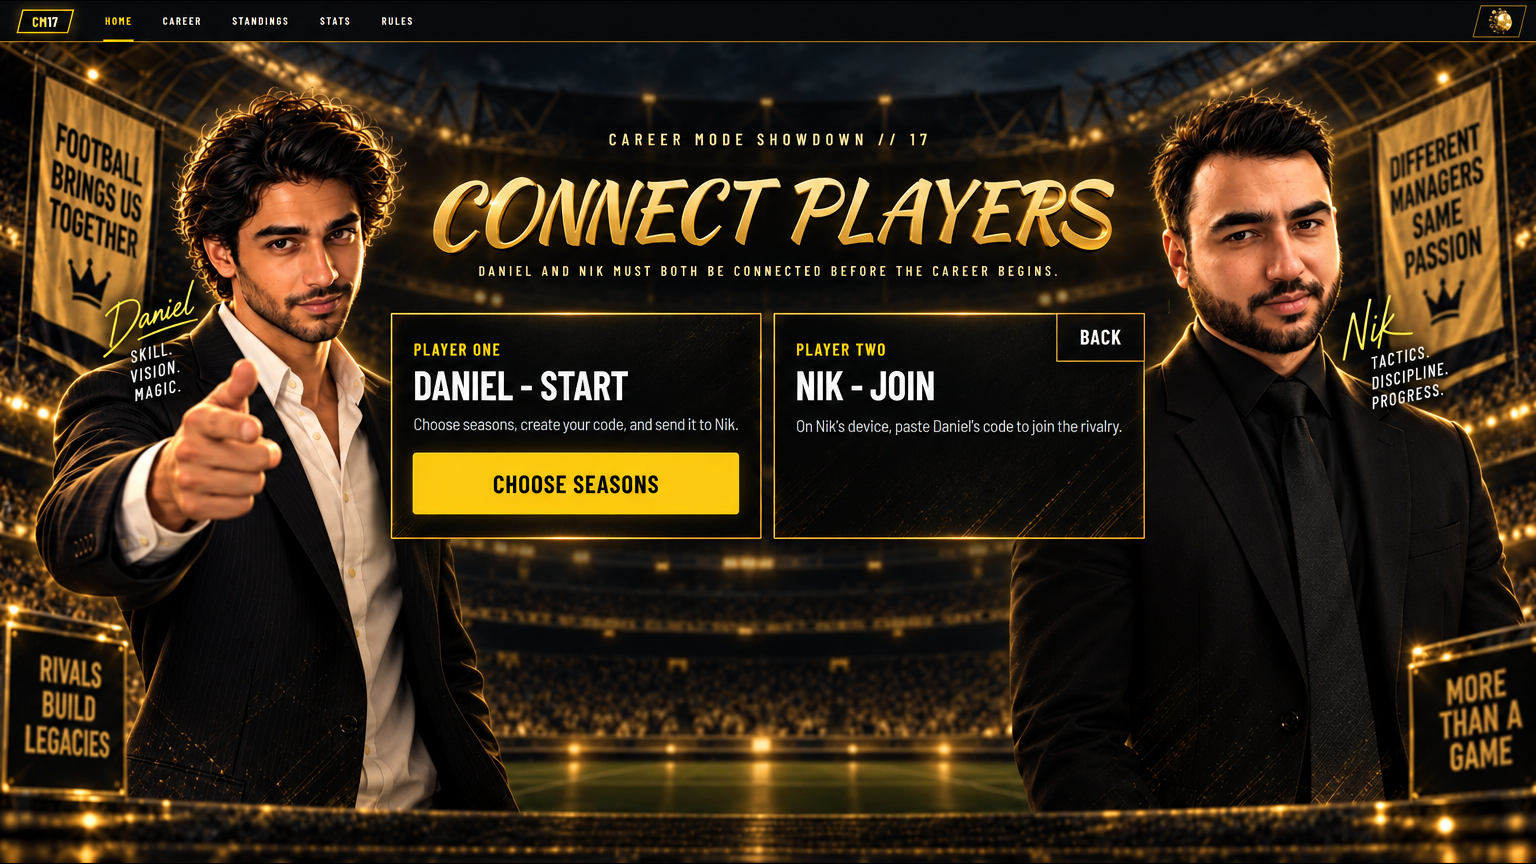
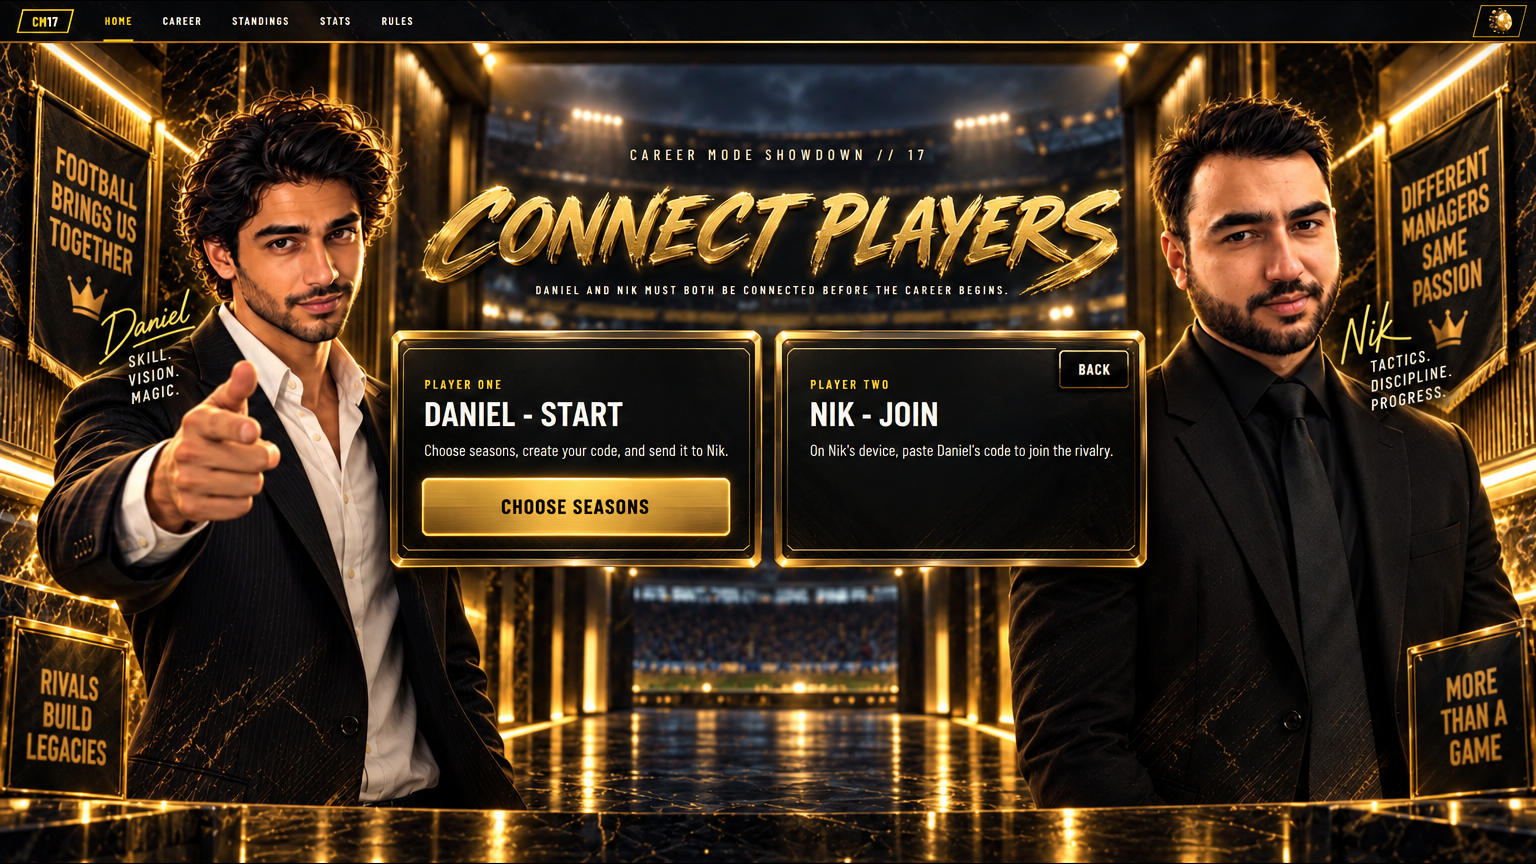
Mockups: re-approve NEXT_CONNECT_PLAYERS with the premium redo
Claude-Session: https://claude.ai/code/session_013pn5j1NjipzmcDNVpF7Fd3

diff --git a/project-documents/factory/mockups/README.md b/project-documents/factory/mockups/README.md
@@ -31,7 +31,7 @@ Nik's mockups and goal images. They show the look to reach. Some contain real cl
 | PHONE_FINAL_WINNER.png | Final Winner | Sat 10 Oct 11:23 p.m. Eastern | Ticket 1588 11 of 12, try 1 plus a buttons-only fix. Faces, trophy, scores and every word match live. New: richer stadium night, framed SUMMARY / HONOURS panel, and the two live buttons REVIEW MY SEASON RESULT (dark, gold edge) and BACK TO SHOWDOWN HOME (gold, main) fully on screen with a margin. In live they sit 6-7px from the bottom edge at 393x660. sha256 67de1d61ed589677… |
 | NEXT_HOME.png | Home (desktop, next level) | Sun 11 Oct 1:50 a.m. Eastern | Ticket 1610 1 of 14, try 1, cropped to the 16:9 screen (1536x864). Both managers, every title, tab, label and the soundtrack card match live r69. New: calmer lighting, a trophy-hall background with plain shirts (no crests), cleaner panels, and big tile art filling the right side of each tile. Dropped: the small "More Than A Game" script tag above the right banner (decoration only). sha256 c8a44225c70ab08f… |
 | NEXT_RULE_BOOK.png | Rule Book (desktop, next level) | Sun 11 Oct 3:58 a.m. Eastern | Ticket 1610 13 of 14, first try with the stricter prompt, cropped to the screen (1536x880). Top bar, title, all six cards and every line of 01-05 plus the scoring table match live. Claude fix: GPT merged and garbled the four 06 CONNECTION & RECOVERY lines, so Claude repainted that card body with the four live lines in Barlow (no other pixels touched). Wiring notes: the subtitle shows a comma after "Permanent clubs" (live has a full stop), and the right banner reads SAME AMBITION; use the live banner art (SAME PASSION). New: calmer gold stadium, framed cards, bigger readable rule lines. sha256 bc23b9e610d44f75… |
-| NEXT_CONNECT_PLAYERS.png | Connect Players (desktop, next level) | Sun 11 Oct 6:30 p.m. Eastern | Ticket 1610 2 of 14, cropped to 16:9 (1536x864). Same layout as live: top bar with CM17 and the five tabs, CONNECT PLAYERS title and line, Daniel LEFT and Nik RIGHT unchanged, all four live banners, BACK above the right card. New: both cards much larger, CHOOSE SEASONS a big yellow main action, calmer stadium. Wiring note: card titles show a dash (DANIEL - START, NIK - JOIN); keep the live middle dot. sha256 6f6e6e089a394b66… |
+| NEXT_CONNECT_PLAYERS.png | Connect Players (desktop, premium) | Sun 11 Oct 6:54 p.m. Eastern | Premium redo (ticket 1610 2 of 14, rewritten prompt), replaces the 6:30 p.m. picture, cropped to 16:9 (1536x864). Same layout and words as live: top bar with CM17 and the five tabs, CONNECT PLAYERS gold-leaf title and line, Daniel LEFT and Nik RIGHT unchanged, all four banners, BACK in the right card. New: black-marble VIP tunnel with brushed-gold walls, framed gold-bevel cards, polished-gold CHOOSE SEASONS. Wiring note: card titles show a dash (DANIEL - START, NIK - JOIN); keep the live middle dot. sha256 e86d6f0a4ba5f52d… |
 | NEXT_SEASON_RESULTS.png | Season Results (desktop, next level) | Sun 11 Oct 6:33 p.m. Eastern | Ticket 1610 3 of 14, cropped to 16:9 (1536x864). Same layout and words as live: top bar with lock marks and the DANIEL / SEASON 1 / 1 chips, SEASON RESULTS brush title, TWO MANAGERS · ONE LEGACY, scoring card (+5, +3, +1, +1, +1, max 11), Daniel's entry card (Arsenal, our original badge), four award checkboxes, REVIEW MY SEASON RESULT and BACK TO SHOWDOWN HOME. Daniel LEFT, Nik RIGHT unchanged, all four banners. New: bigger entry fields and labels, stronger card frames, calmer pitch light. sha256 561a27dd53fb019e… |
 | PHONE_SETTINGS.png | Settings | Sat 10 Oct 11:22 p.m. Eastern | Ticket 1588 12 of 12, first try. Every word matches live. New: bevelled black glass panels with gold edges, gold-framed SIGN IN WITH GOOGLE, bevelled gold DONE with a clear margin, calmer stadium. Wiring note: DANIEL & NIK and CAREER MODE SHOWDOWN headings still use a plain sans copied from live; use the game condensed font there like every other label. sha256 13f4c99be317608a… |
 | PHONE_RULE_BOOK.png | Rule Book | Sun 11 Oct 3:17 a.m. Eastern | Ticket 1588 13 of 14, after the stricter prompt (earlier tries invented rules and tabs). Every word matches live: section 01's six lines word for word, 02-06 as closed accordion rows, gear button top right, BACK TO MAIN MENU, bottom tabs HOME / CAREER / STANDINGS / STATS / RULES with RULES lit. New: one framed accordion that fits 393x660 with no scroll, gold-ringed numbers, calm stadium night. sha256 08231f324078e9de… |
